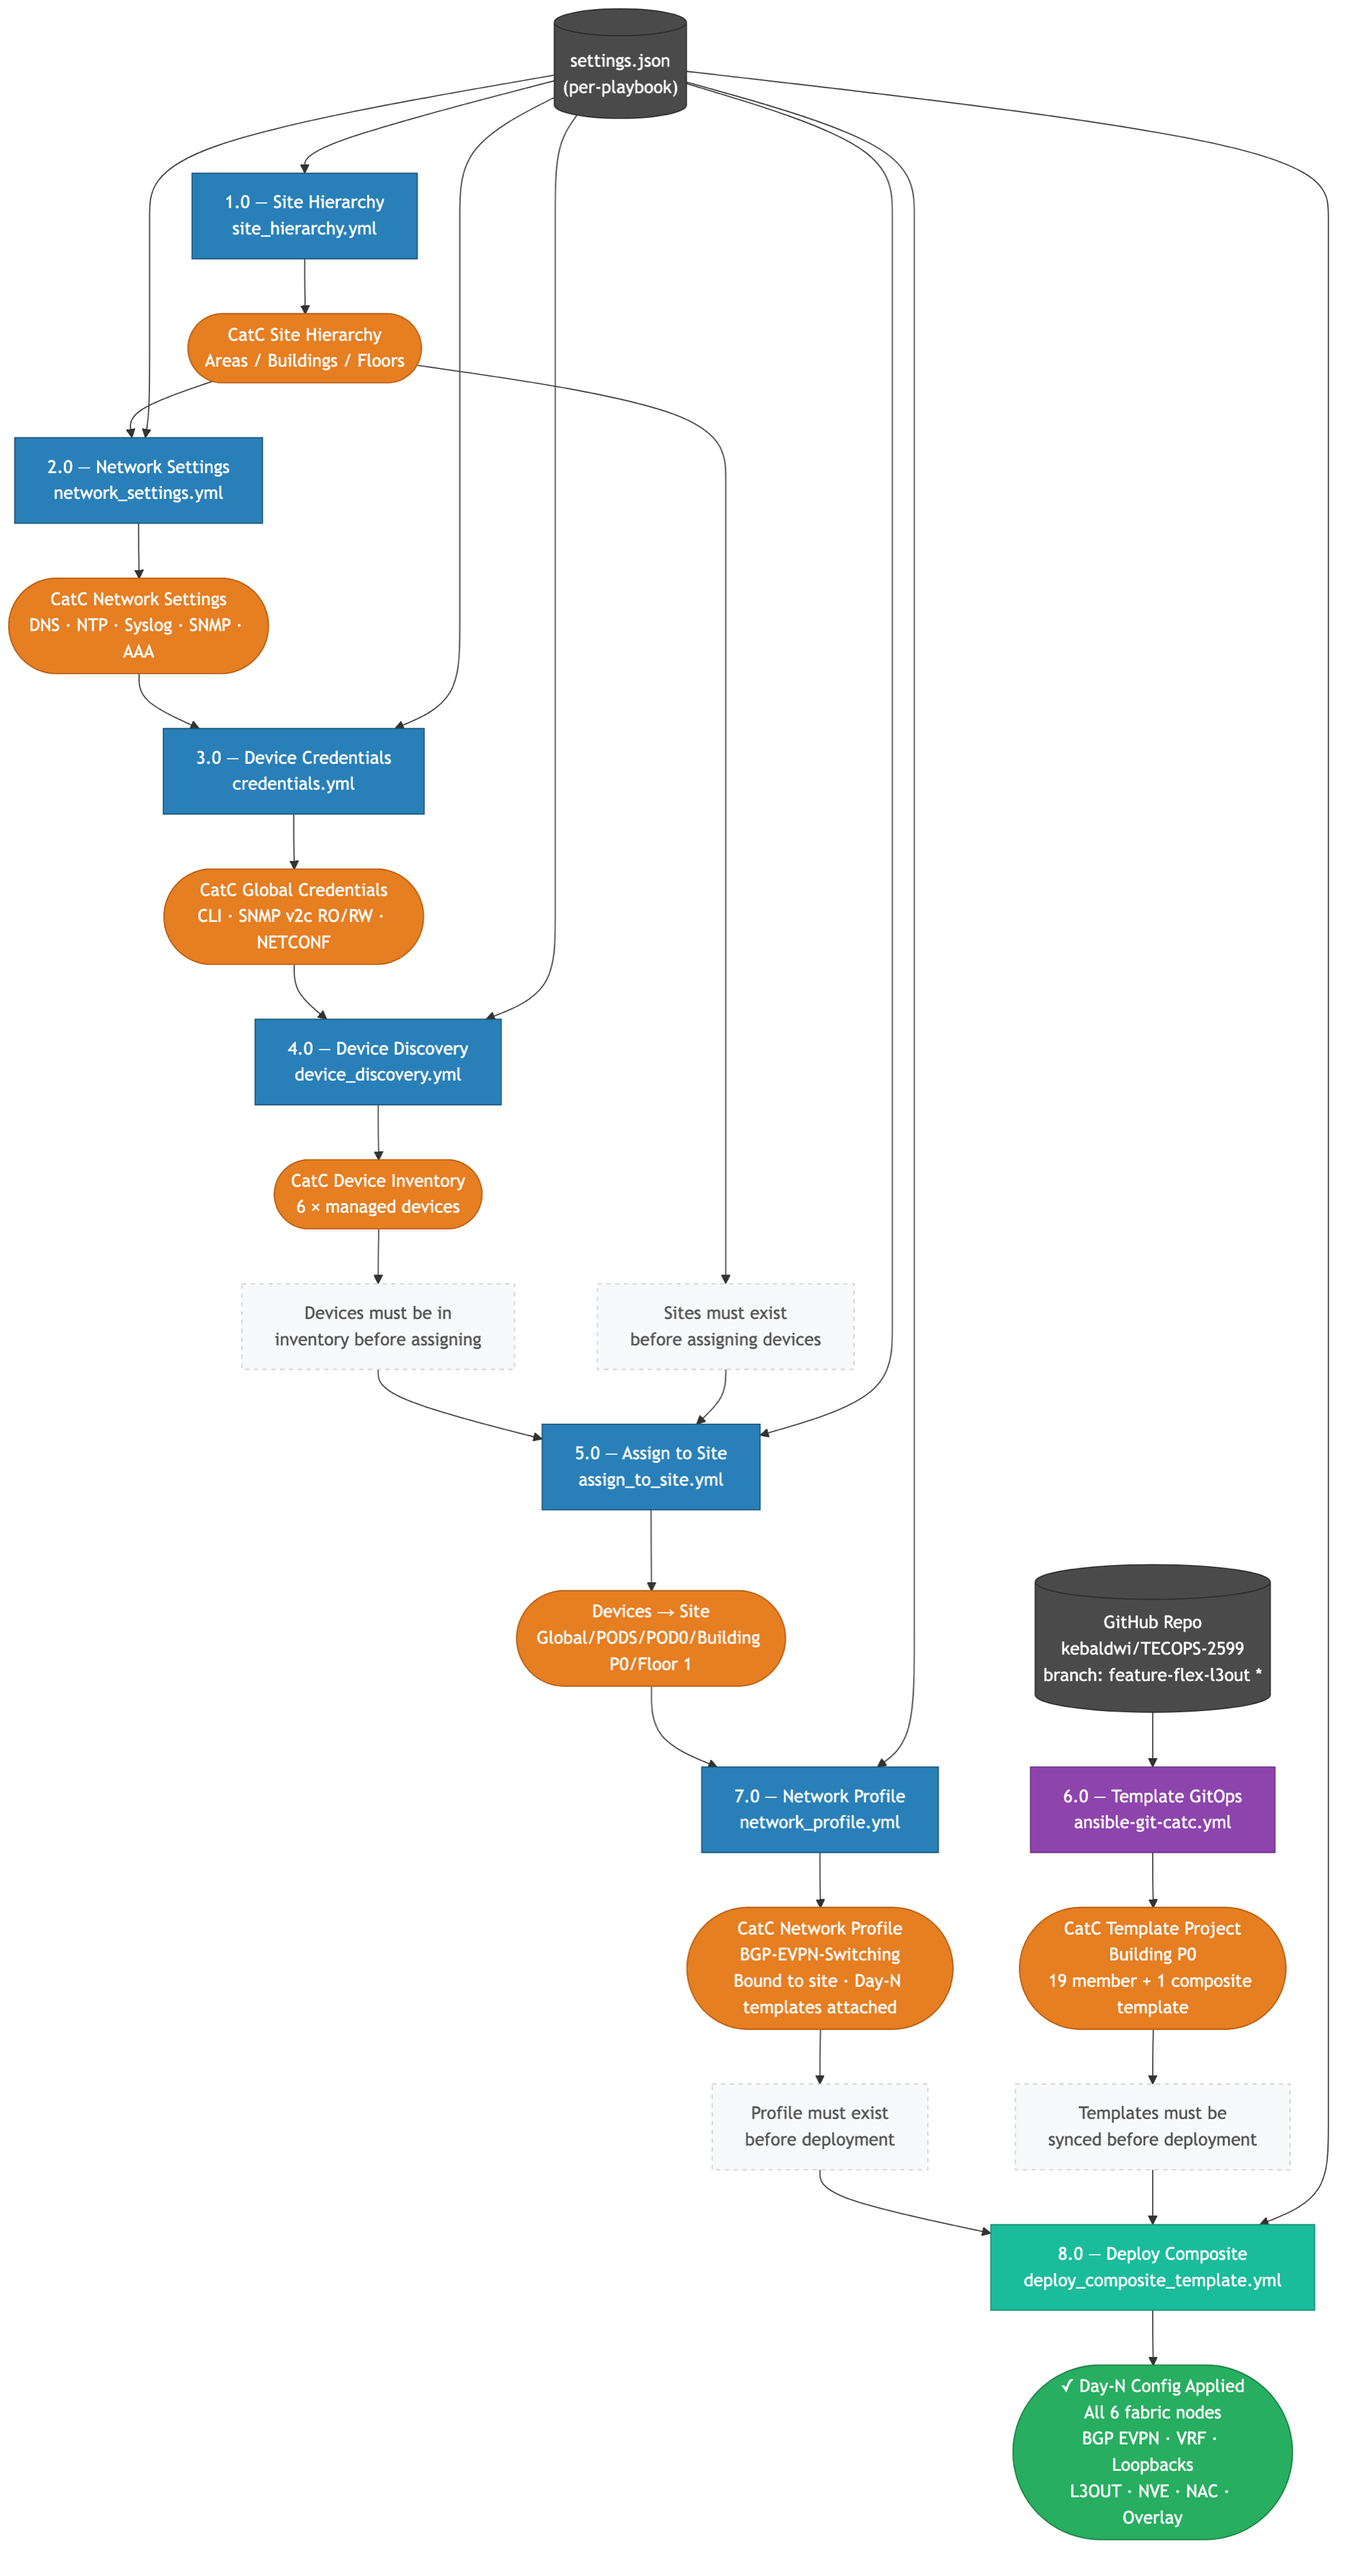
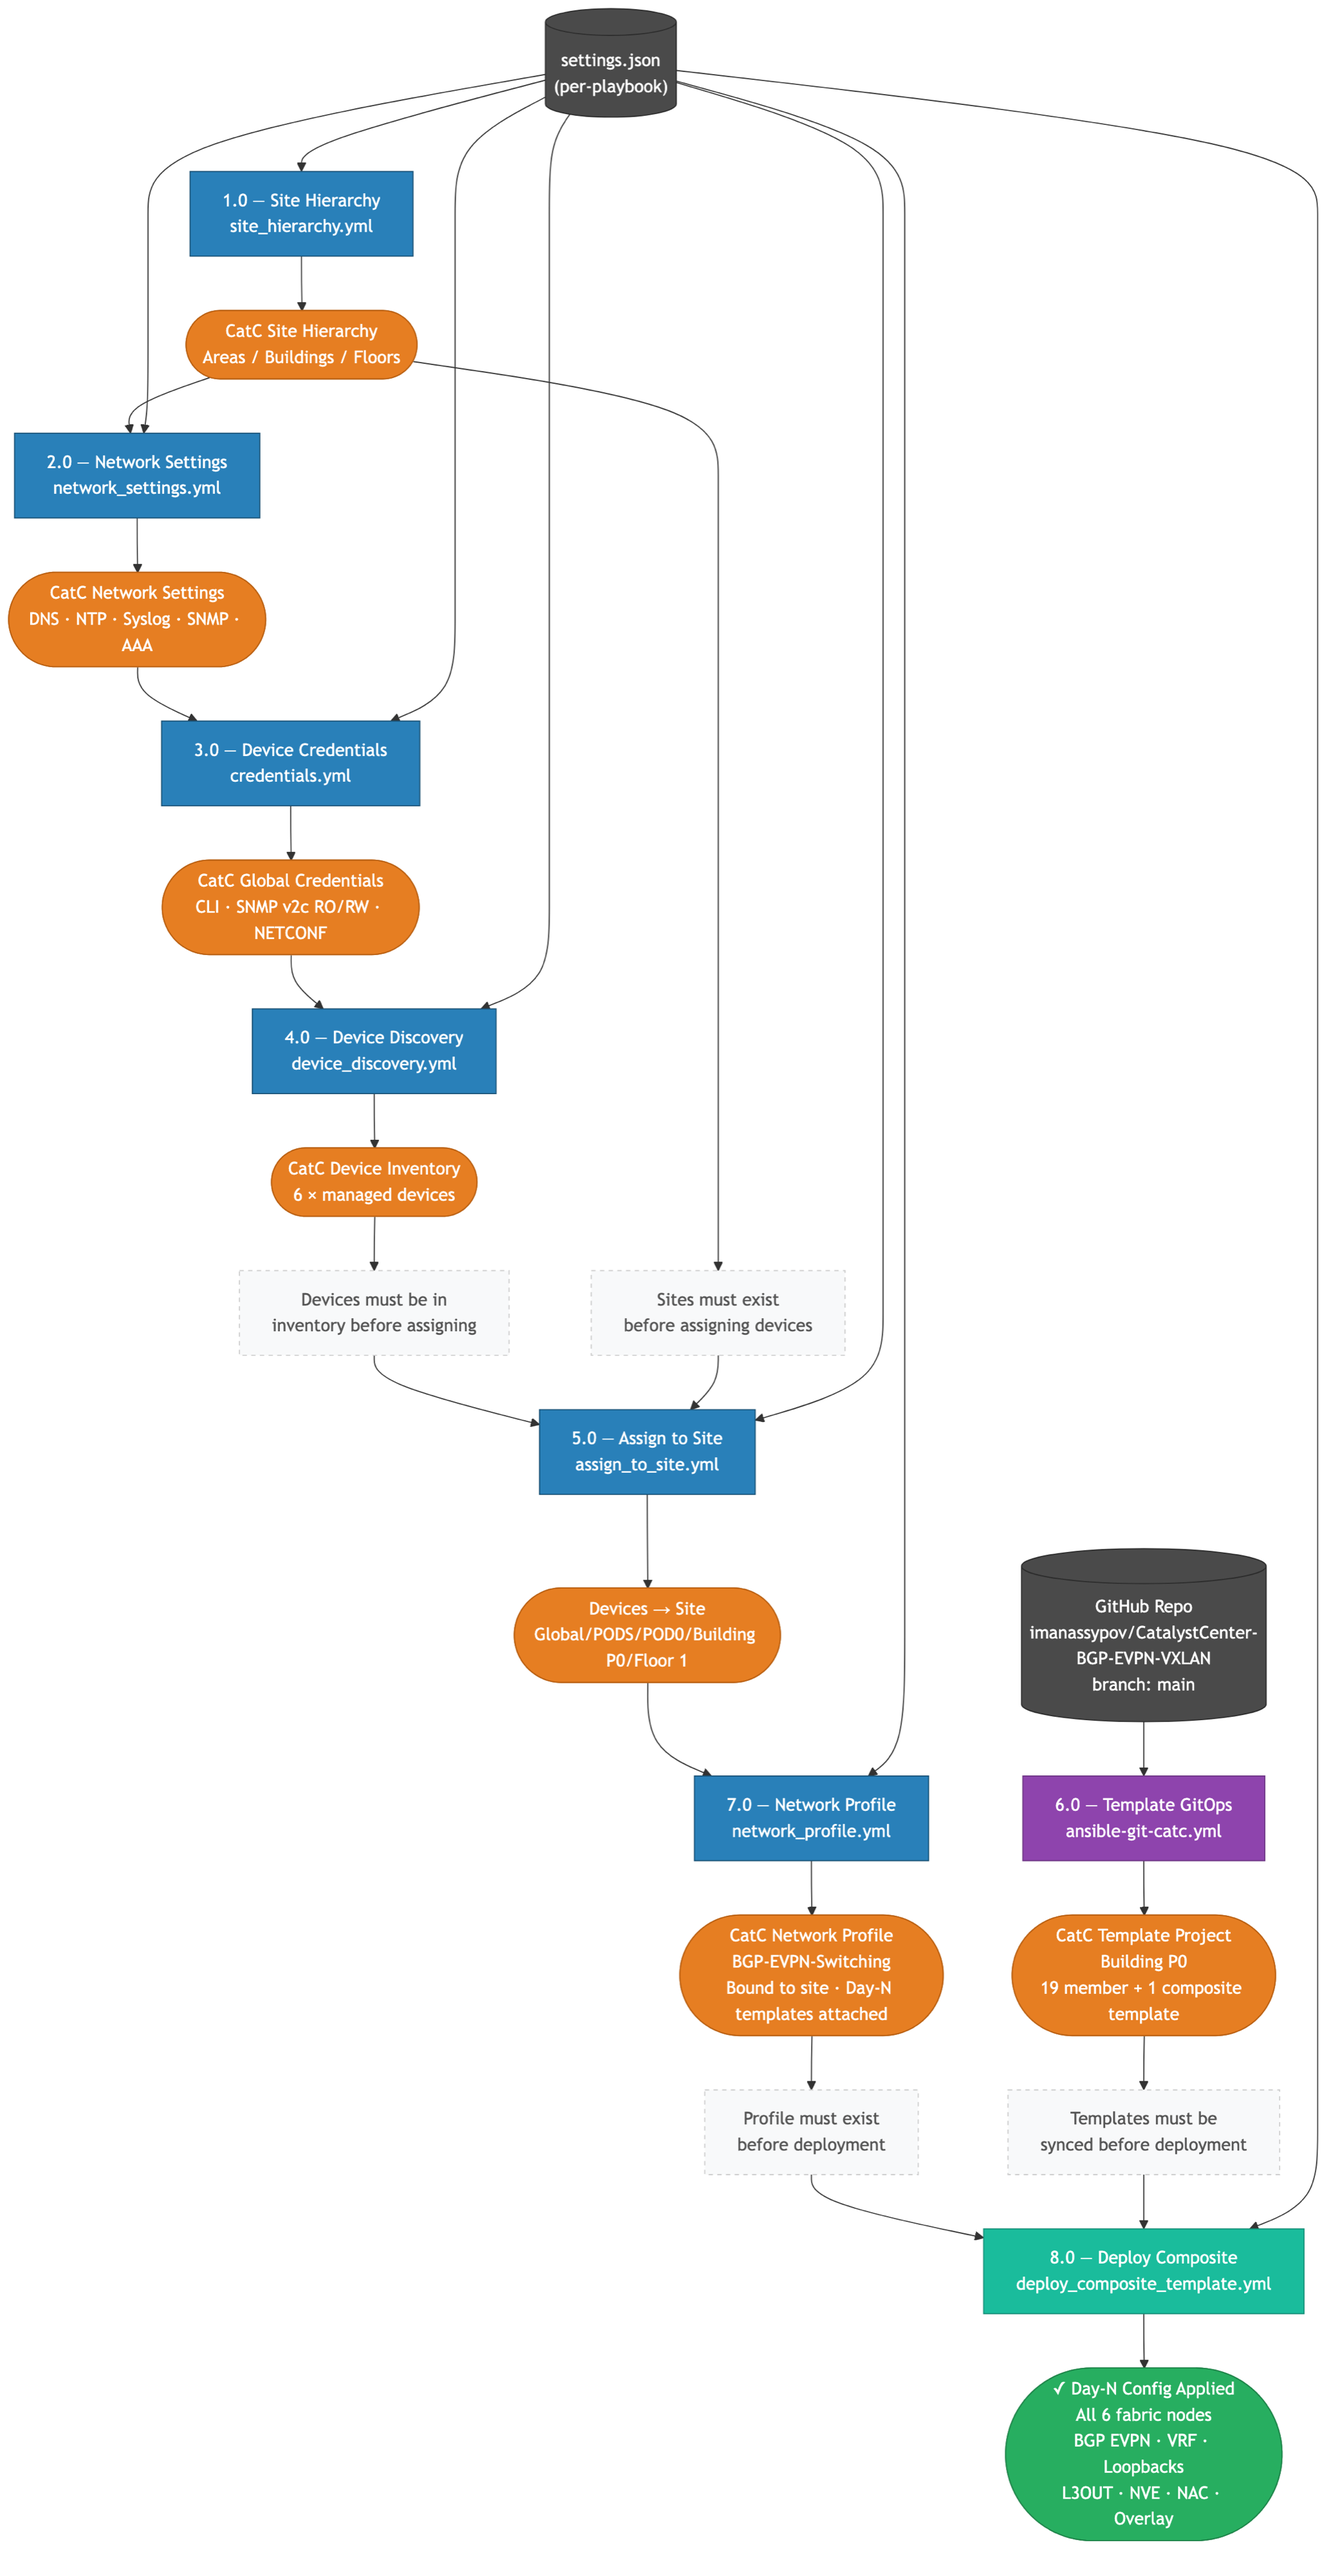
docs: update 6.0 git source to imanassypov/CatalystCenter-BGP-EVPN-VXLAN main
- DIAGRAMS/provisioning-workflow.mmd: GH node updated from
  kebaldwi/TECOPS-2599 / feature-flex-l3out to
  imanassypov/CatalystCenter-BGP-EVPN-VXLAN / main
- DIAGRAMS/provisioning-workflow.png: re-rendered (2082x4000 px)
- README.md: GitHub Repository section now shows explicit
  git_repo, git_branch, and git_repo_subfolder values

diff --git a/Support/Resources/Ansible/README.md b/Support/Resources/Ansible/README.md
@@ -352,6 +352,12 @@ Used by: **6.0**
 
 Jinja2 template files (`.j2`) and composite definitions (`.yml`) stored in a subfolder of the configured GitHub repository. Fetched at runtime via the GitHub REST API — no local clone required.
 
+| Parameter | Value |
+|-----------|-------|
+| `git_repo` | `https://github.com/imanassypov/CatalystCenter-BGP-EVPN-VXLAN.git` |
+| `git_branch` | `main` |
+| `git_repo_subfolder` | `BGP EVPN` |
+
 ---
 
 ## Compatibility Matrix
